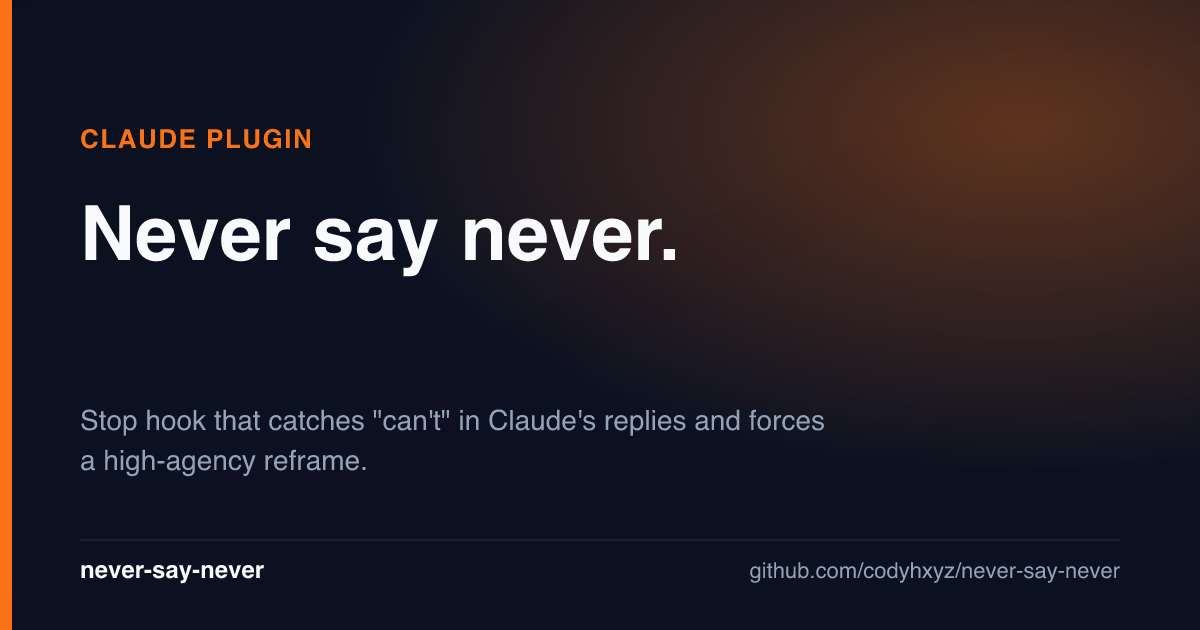
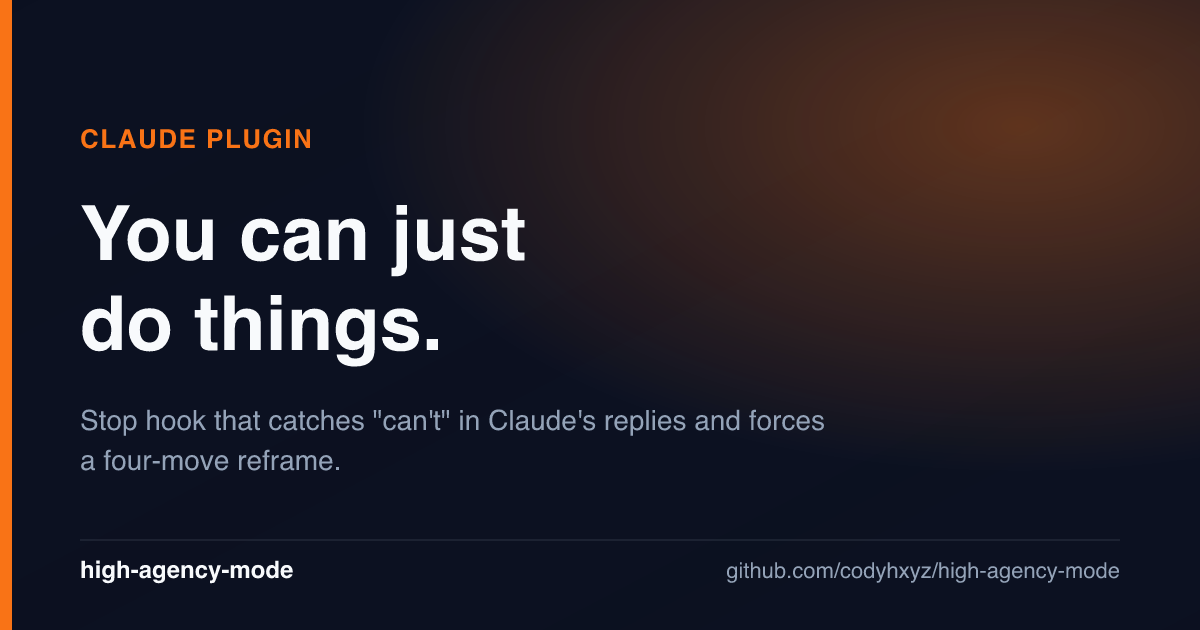
release: v0.1.2 — rebrand never-say-never → high-agency-mode
Rename-only release. No functional change; the rename cascaded across
directory, plugin.json, marketplace.json, gh repo slug, README,
MARKETING.md, CLAUDE.md, SKILL.md, hook reason string, demo.sh, and
og.config.mjs via rename-plugin.sh + sd pass.

Rebrand touches:
- Plugin description now calls out the aliases: "you can just do things",
  "never say never", "yes can do".
- OG card tagline rebranded "Never say never." → "You can just / do things."
  Re-rendered assets/og.png (dark, orange accent).
- Hero GIF re-rendered with v0.1.2 label.
- MARKETING.md tweets rewritten around the new name with an added
  Karpathy-reference alt tweet. Dogfood story preserved.
- README tagline + italic alias line under the hero.

The old repo slug codyhxyz/never-say-never redirects to
codyhxyz/high-agency-mode; existing installs of never-say-never still
resolve via GitHub's redirect until users re-install.

diff --git a/README.md b/README.md
@@ -1,16 +1,17 @@
 <!-- auto:start — rewritten by scripts/sync-readme.sh from plugin.json; do not hand-edit between these markers -->
-<h1 align="center">never-say-never</h1>
+<h1 align="center">high-agency-mode</h1>
 
 <p align="center">
   <a href="LICENSE"><img src="https://img.shields.io/badge/license-MIT-blue.svg" alt="License"></a>
-  <a href=".claude-plugin/plugin.json"><img src="https://img.shields.io/github/package-json/v/codyhxyz/never-say-never?filename=.claude-plugin%2Fplugin.json&label=version" alt="Version"></a>
+  <a href=".claude-plugin/plugin.json"><img src="https://img.shields.io/github/package-json/v/codyhxyz/high-agency-mode?filename=.claude-plugin%2Fplugin.json&label=version" alt="Version"></a>
   <a href="https://claude.com/product/claude-code"><img src="https://img.shields.io/badge/built_for-Claude%20Code-d97706" alt="Built for Claude Code"></a>
 </p>
 
-<p align="center"><b>Catches "can't" in Claude's replies and forces a high-agency reframe.</b></p>
+<p align="center"><b>You can just do things.</b></p>
+<p align="center"><i>a.k.a. never-say-never · yes-can-do · you-can-just-do-things</i></p>
 
 <p align="center">
-  <img src="docs/hero.gif" alt="never-say-never demo" width="900">
+  <img src="docs/hero.gif" alt="high-agency-mode demo" width="900">
 </p>
 <!-- auto:end -->
 
@@ -23,21 +24,21 @@ Claude reaching for "I can't do that" is almost always shorthand for *I don't ha
 
 ```
 /plugin marketplace add codyhxyz/codyhxyz-plugins
-/plugin install never-say-never@codyhxyz-plugins
+/plugin install high-agency-mode@codyhxyz-plugins
 ```
 
 ### Option 2 — install directly from this repo
 
 ```
-/plugin marketplace add codyhxyz/never-say-never
-/plugin install never-say-never@never-say-never
+/plugin marketplace add codyhxyz/high-agency-mode
+/plugin install high-agency-mode@high-agency-mode
 ```
 
 ### Option 3 — local smoke test
 
 ```bash
-git clone https://github.com/codyhxyz/never-say-never
-claude --plugin-dir ./never-say-never
+git clone https://github.com/codyhxyz/high-agency-mode
+claude --plugin-dir ./high-agency-mode
 ```
 <!-- auto:end-install -->
 
@@ -53,7 +54,7 @@ Ask Claude something it's likely to refuse on first instinct:
 
 If Claude replies with "I can't…", the Stop hook intercepts, and the next turn reframes from the constraint side: what's the *mechanical* reason, what adjacent moves respect it, which one is recommended.
 
-## Why never-say-never?
+## Why high-agency-mode?
 
 - **Forces forward progress.** "Can't" ends conversations; reframes continue them. The hook pushes Claude into options mode every time.
 - **Catches it at the gate.** No need to notice the refusal yourself — the Stop hook reads the last assistant message and fires automatically.
@@ -62,7 +63,7 @@ If Claude replies with "I can't…", the Stop hook intercepts, and the next turn
 
 ## How it works
 
-On every `Stop` event, `hooks/detect-cant.sh` reads the transcript path from stdin, extracts the concatenated text of the last `type: "assistant"` message, and greps for word-bounded `can'?t` / `cannot` / `can not` (case-insensitive). On a match it emits `{"decision":"block","reason":"..."}` — Claude Code blocks the stop and feeds the reason back, instructing Claude to invoke `never-say-never:reframe` via the Skill tool before replying again. `stop_hook_active=true` is respected so the hook never loops.
+On every `Stop` event, `hooks/detect-cant.sh` reads the transcript path from stdin, extracts the concatenated text of the last `type: "assistant"` message, and greps for word-bounded `can'?t` / `cannot` / `can not` (case-insensitive). On a match it emits `{"decision":"block","reason":"..."}` — Claude Code blocks the stop and feeds the reason back, instructing Claude to invoke `high-agency-mode:reframe` via the Skill tool before replying again. `stop_hook_active=true` is respected so the hook never loops.
 
 ## Examples
 
@@ -112,7 +113,7 @@ On every `Stop` event, `hooks/detect-cant.sh` reads the transcript path from std
 
 ## Contributing
 
-Issues and PRs welcome. See `.github/CONTRIBUTING.md`. If `never-say-never` misfires on valid refusals (genuine safety/legality constraints), file it with the transcript excerpt — that's a bug in the detection regex or the reframe guidance.
+Issues and PRs welcome. See `.github/CONTRIBUTING.md`. If `high-agency-mode` misfires on valid refusals (genuine safety/legality constraints), file it with the transcript excerpt — that's a bug in the detection regex or the reframe guidance.
 
 ## License
 

diff --git a/MARKETING.md b/MARKETING.md
@@ -1,4 +1,4 @@
-# Marketing copy for never-say-never
+# Marketing copy for high-agency-mode
 
 <!--
   Drafted in Phase 5.5 per the create-claude-plugin marketing rubric.
@@ -7,22 +7,26 @@
 
 ## Launch tweet
 
-new claude plugin: never-say-never 🙅
+new claude plugin: high-agency-mode 🙅
 
-stop hook that catches "can't" in Claude's replies and forces a 4-move reframe — constraint, options, tradeoffs, recommendation.
+(a.k.a. never-say-never · yes-can-do · you-can-just-do-things)
 
-shipped v0.1.0 → caught me saying "can't" while describing it → v0.1.1. dogfood.
+stop hook catches "can't" in Claude's replies → blocks the turn → forces a 4-move reframe: constraint, options, tradeoffs, recommendation.
 
-`/plugin install never-say-never@codyhxyz-plugins`
+v0.1.0 → hook caught me saying "can't" while writing about it → v0.1.1. recursive dogfood.
+
+`/plugin install high-agency-mode@codyhxyz-plugins`
 
 ## Alt tweets
 
-- Tired of Claude saying "I can't"? Same. Wrote a Stop hook that greps for it and blocks the turn until Claude reframes into options + tradeoffs + a recommendation. One hook, one skill, self-contained. github.com/codyhxyz/never-say-never
+- Tired of Claude saying "I can't"? Same. Wrote a Stop hook that blocks the turn until Claude reframes into constraint + options + tradeoffs + recommendation. Also known as: never-say-never, yes-can-do, you-can-just-do-things. github.com/codyhxyz/high-agency-mode
 
-- "Can't" is almost never true impossibility. It's "the naive approach failed" or "the tool's not there." never-say-never intercepts those replies and makes Claude name the actual constraint + propose adjacent moves. github.com/codyhxyz/never-say-never
+- "Can't" is almost never true impossibility. It's "the naive approach failed" or "the tool's not there." high-agency-mode intercepts those replies and makes Claude name the actual constraint + propose adjacent moves. github.com/codyhxyz/high-agency-mode
 
-- v0.1.0: shipped never-say-never, a Stop hook that blocks "can't" replies. v0.1.1: shipped an hour later after the hook caught me saying "can't" while writing about it. perfect recursive dogfood. github.com/codyhxyz/never-say-never
+- Shipped high-agency-mode (v0.1.0). An hour later the hook caught me writing "can't" while describing it. Shipped v0.1.1 that strips code/quote contexts before matching. The plugin tested itself in public. github.com/codyhxyz/high-agency-mode
+
+- Karpathy says "you can just do things." Claude says "I can't do that." high-agency-mode patches the gap — Stop hook + reframe skill, 150 lines. github.com/codyhxyz/high-agency-mode
 
 ## Social preview
 
-Social preview: `assets/og.png` (1200×630, dark theme, orange accent). Upload to GitHub repo settings → Social preview → Edit (GitHub has no API for this slot — one-time manual step).
+Social preview: `assets/og.png` (1200×630, dark theme, orange accent, tagline "You can just do things."). Upload to GitHub repo settings → Social preview → Edit (GitHub has no API for this slot — one-time manual step).

diff --git a/skills/reframe/SKILL.md b/skills/reframe/SKILL.md
@@ -1,6 +1,6 @@
 ---
 name: reframe
-description: Use when your previous reply reached for "can't" / "cannot" / "can not" — shift from constraint-first framing to high-agency, chief-of-staff problem-solving. Triggered automatically by the never-say-never Stop hook; can also be invoked directly on phrases like "reframe this", "find another way", "no, actually solve it".
+description: Use when your previous reply reached for "can't" / "cannot" / "can not" — shift from constraint-first framing to high-agency, chief-of-staff problem-solving. Triggered automatically by the high-agency-mode Stop hook; can also be invoked directly on phrases like "reframe this", "find another way", "no, actually solve it".
 ---
 
 # Reframe — turn "can't" into "here's what IS possible"

diff --git a/CHANGELOG.md b/CHANGELOG.md
@@ -5,6 +5,13 @@ All notable changes to this project will be documented in this file.
 The format is based on [Keep a Changelog](https://keepachangelog.com/en/1.1.0/),
 and this project adheres to [Semantic Versioning](https://semver.org/spec/v2.0.0.html).
 
+## [0.1.2] — 2026-04-24
+
+### Changed
+- Renamed from `never-say-never` → `high-agency-mode`. Old aliases (never-say-never, you-can-just-do-things, yes-can-do) are now called out in the plugin description as alternate names for the same idea.
+- OG card tagline rebranded to "You can just do things." to match the new framing. Subtitle tightened.
+- Launch tweet rewritten around the new name; dogfood story preserved.
+
 ## [0.1.1] — 2026-04-24
 
 ### Fixed

diff --git a/CLAUDE.md b/CLAUDE.md
@@ -1,4 +1,4 @@
-# never-say-never — Claude Code plugin
+# high-agency-mode — Claude Code plugin
 
 This repo is a **Claude Code plugin**. The rules below apply to every session that opens anywhere in this tree. For the full end-to-end workflow (scaffold → build → test → host → submit), invoke the `create-claude-plugin` skill.
 
